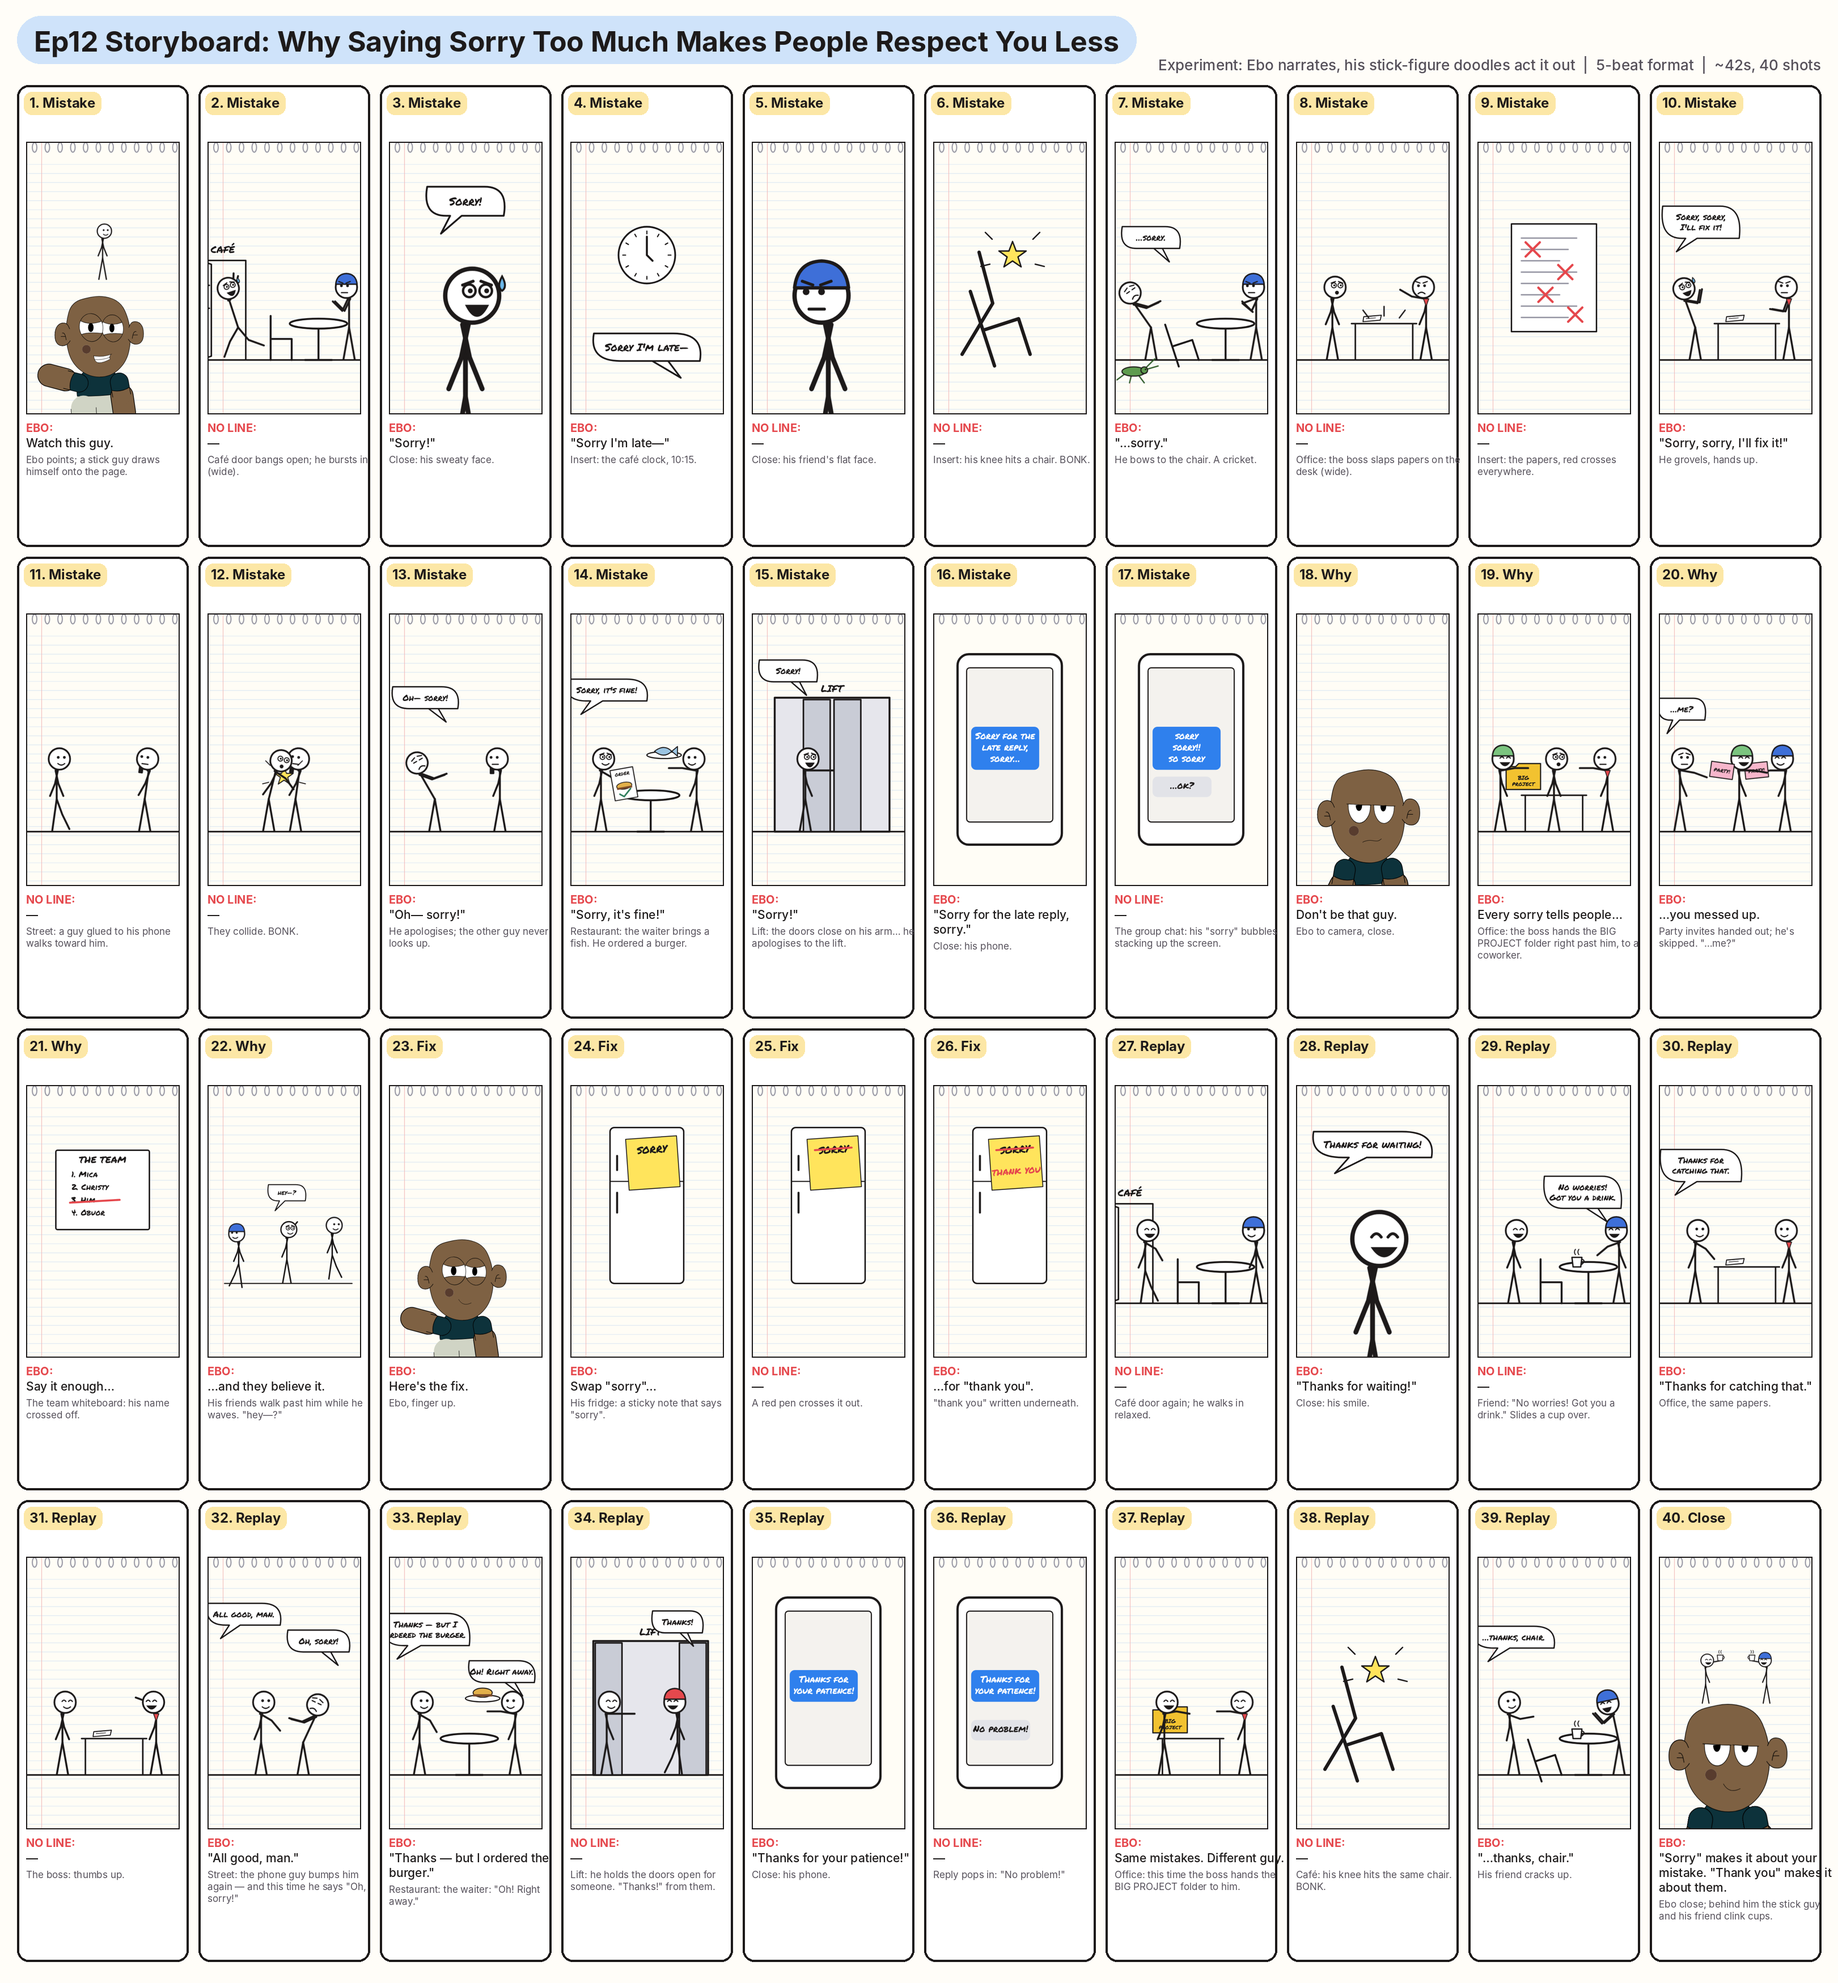
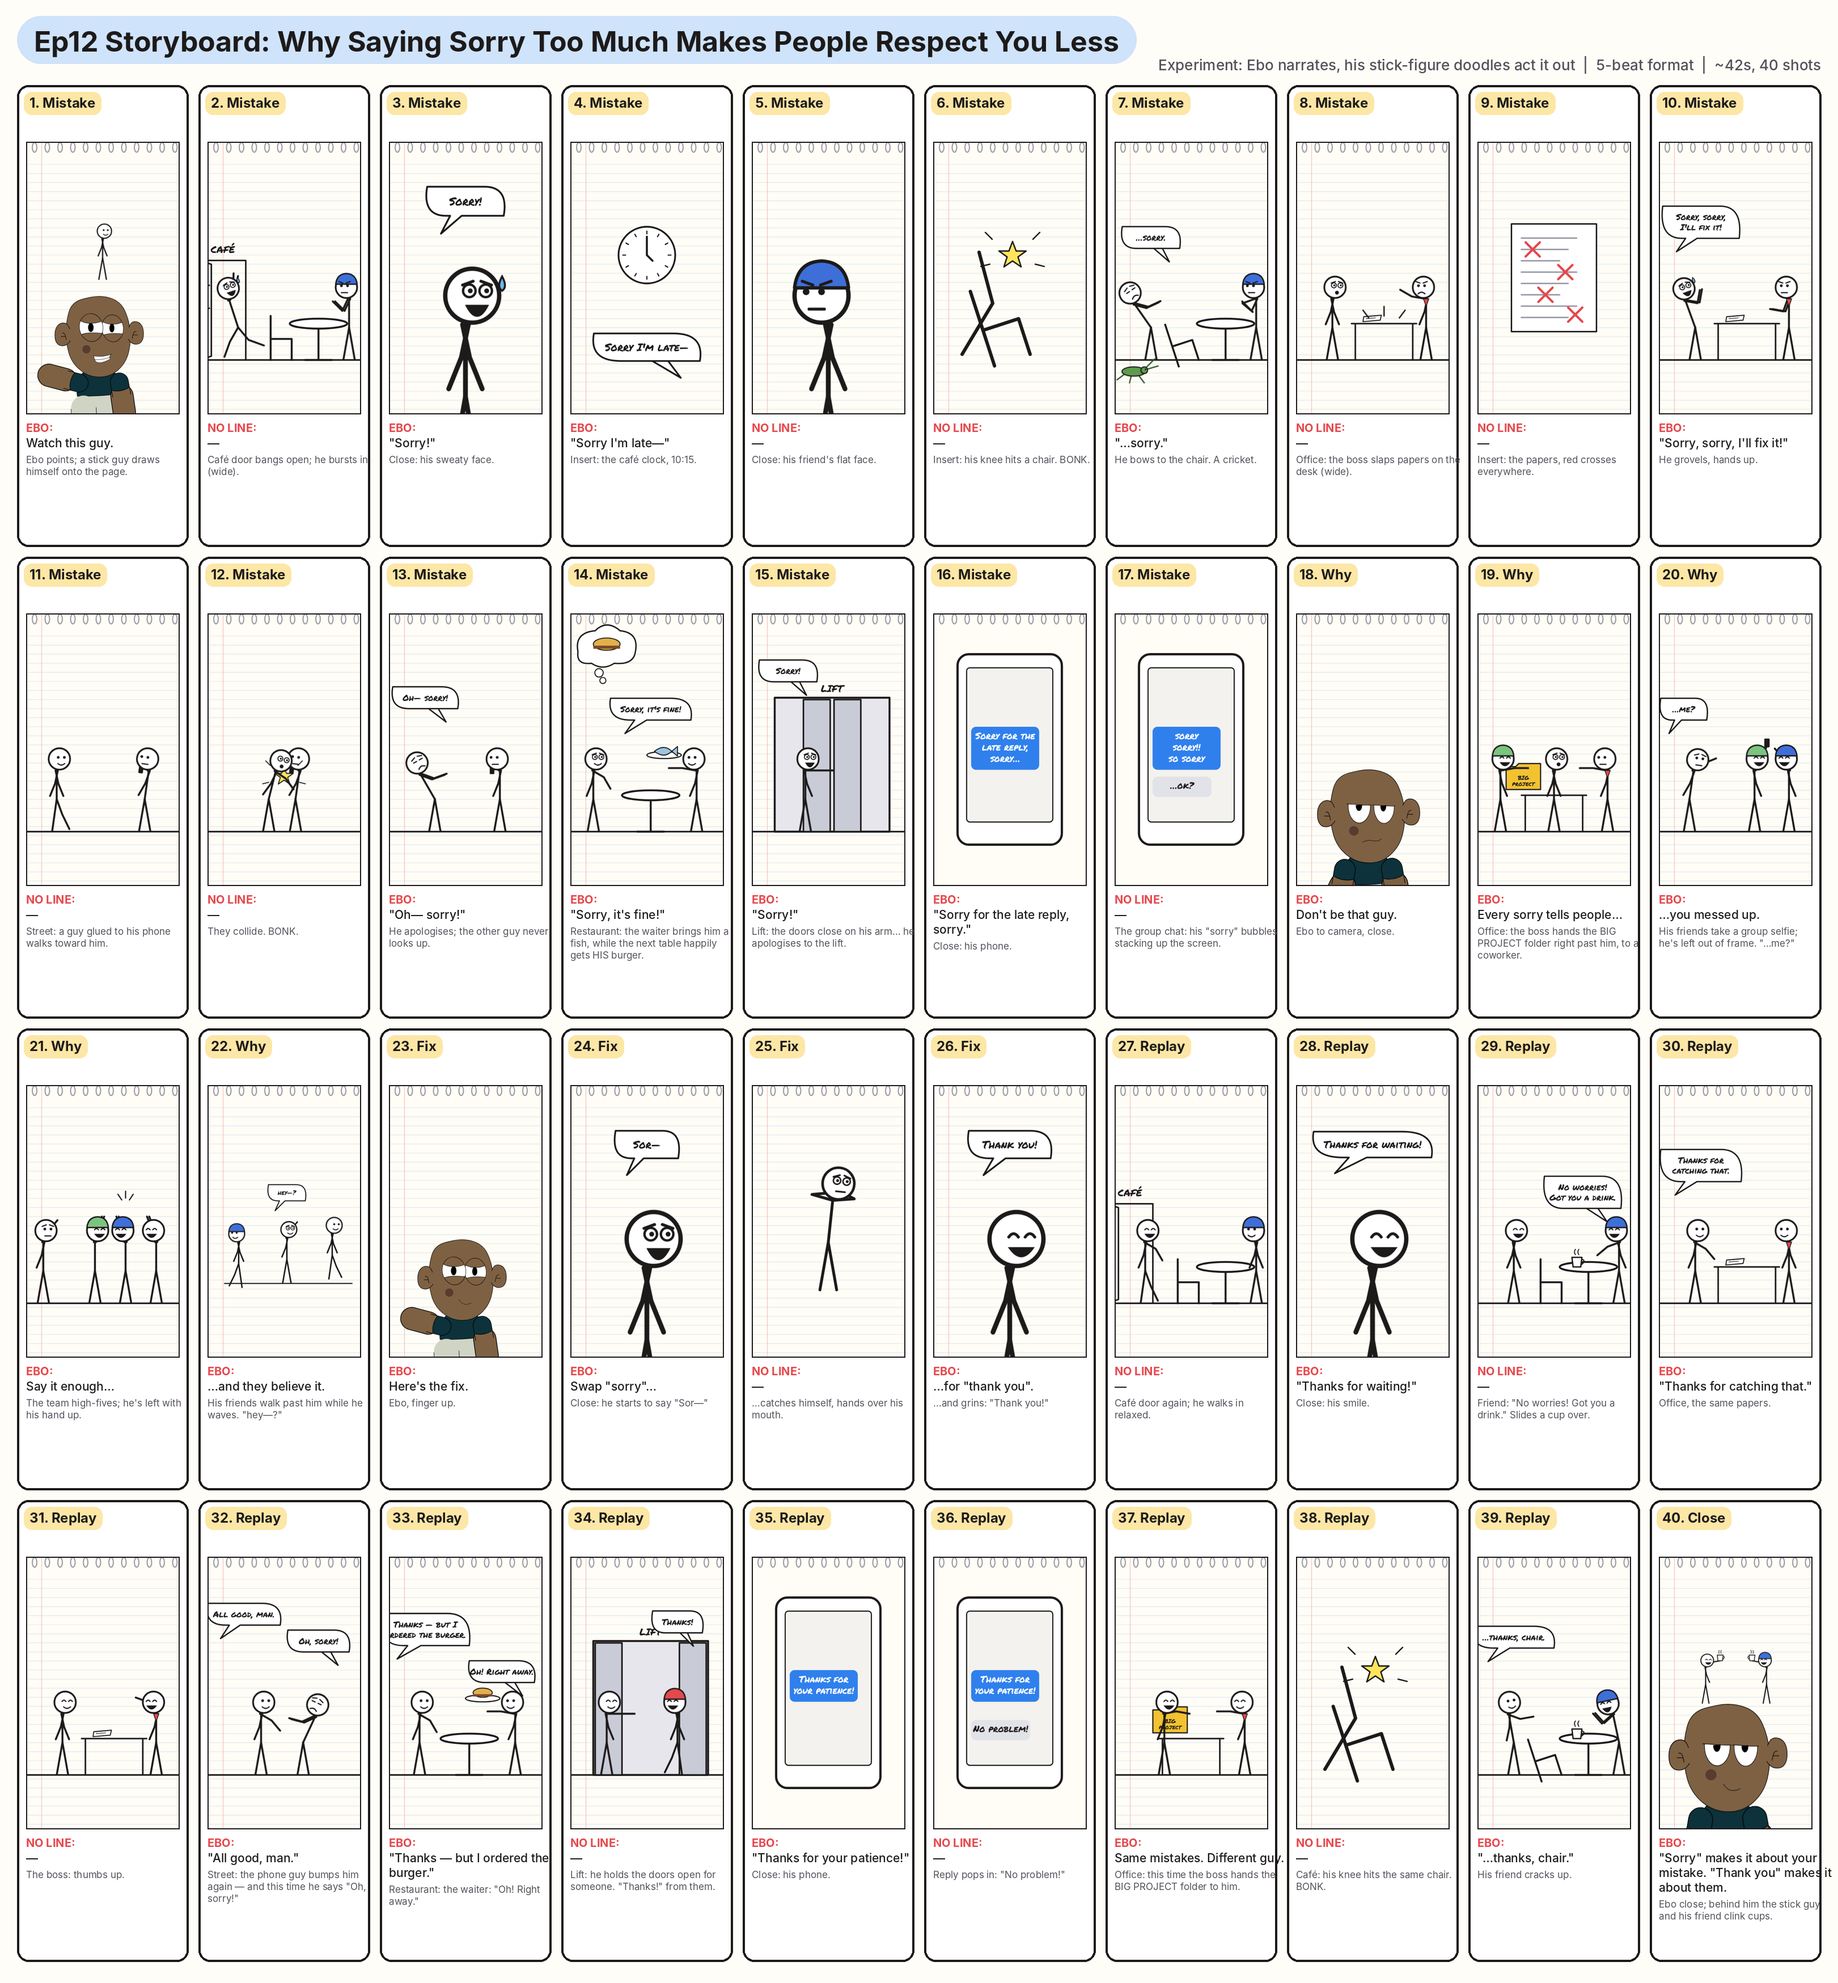
Ep12: no card notes; the fix is acted (Sor— / hands over mouth / Thank you!), the selfie, the high-five, the burger thought
Claude-Session: https://claude.ai/code/session_01Kn9As8DfxPWEV47cuNZdJi

diff --git a/src/series/ep12board.tsx b/src/series/ep12board.tsx
@@ -193,21 +193,21 @@ export const PANELS: ((l: number) => React.ReactNode)[] = [
   P(() => <Page><Big><Floor /><Lamp x={950} /><PhoneGuy x={760} /><Guy x={300} pose={{eyes: 'dot', mouth: 'smile', legL: [20, 6], legR: [-8, 0]}} /></Big></Page>), // 11 street
   P((l) => <Page><Big><Floor /><Lamp x={950} /><PhoneGuy x={l < 0.25 ? 760 - 160 * (l / 0.25) : 600} /><g transform="translate(540 1110) scale(0.8)"><Bonk /></g><Guy x={460} pose={{lean: -14, armL: [70, -20], eyes: 'wide', mouth: 'o'}} /></Big></Page>), // 12 collide
   P(() => <Page><Big><Floor /><Lamp x={950} /><PhoneGuy x={720} lean={0} /><Guy x={380} pose={{armL: [40, 40], armR: [40, 40], lean: 30, eyes: 'closed', mouth: 'frown', brows: 'worried'}} /><g transform="translate(330 700)"><DoodleBubble text={['Oh— sorry!']} w={340} tail={1} /></g></Big></Page>), // 13 he apologises
-  P(() => <Page><Big><Floor /><g transform={`translate(560 ${FLOOR})`}><DoodleTable /></g><Waiter dish="fish" /><Guy x={300} pose={{eyes: 'wide', mouth: 'smile', brows: 'worried', armL: [60, -30]}} /><g transform="translate(330 660)"><DoodleBubble text={["Sorry, it's fine!"]} w={420} tail={-1} /></g><g transform="translate(420 1150) rotate(-10)"><rect x={-60} y={-80} width={120} height={160} {...INKL} fill="#fff" strokeWidth={5} /><text y={-44} textAnchor="middle" fontFamily="EboMarker" fontSize={24} fill="#1D1A1A">ORDER</text><ellipse cx={0} cy={10} rx={40} ry={18} fill="#E2B04A" stroke="#1D1A1A" strokeWidth={4} /><rect x={-40} y={16} width={80} height={10} fill="#7A4A2A" /><path d="M -30 50 l 20 16 l 40 -36" stroke="#2E7D5B" strokeWidth={8} fill="none" strokeLinecap="round" /></g></Big></Page>), // 14 restaurant
+  P(() => <Page><Big><Floor /><g transform={`translate(560 ${FLOOR})`}><DoodleTable /></g><Waiter dish="fish" /><Guy x={260} pose={{eyes: 'wide', mouth: 'smile', brows: 'worried', armL: [60, -30]}} /><g transform="translate(560 760)"><DoodleBubble text={["Sorry, it's fine!"]} w={420} tail={-1} /></g><g transform="translate(330 420)"><path d="M -150 40 Q -170 -60 -60 -70 Q 0 -130 70 -70 Q 170 -60 150 40 Q 140 110 40 100 Q -20 140 -80 100 Q -160 110 -150 40 Z" {...INKL} fill="#fff" strokeWidth={7} /><ellipse cx={0} cy={0} rx={70} ry={32} fill="#E2B04A" stroke="#1D1A1A" strokeWidth={5} /><rect x={-70} y={8} width={140} height={16} fill="#7A4A2A" /><circle cx={-20} cy={190} r={16} {...INKL} fill="#fff" strokeWidth={5} /><circle cx={-40} cy={150} r={22} {...INKL} fill="#fff" strokeWidth={5} /></g></Big></Page>), // 14 restaurant: fish for him, HIS burger at the next table
   P(() => <Page><Big><Floor /><Lift shut /><g transform={`translate(420 ${FLOOR - 170})`}><StickFigure pose={{armR: [90, 0], eyes: 'wide', mouth: 'open', brows: 'worried'}} /></g><g transform="translate(330 560)"><DoodleBubble text={['Sorry!']} w={300} tail={1} /></g></Big></Page>), // 15 lift
   P(() => <Page lines={false}><Phone lines={['Sorry for the', 'late reply,', 'sorry…']} /></Page>), // 16 phone
   P(() => <Page lines={false}><Phone lines={['sorry', 'sorry!!', 'so sorry']} reply={['…ok?']} /></Page>), // 17 group chat
   // ── why ──
   P(() => <Page><Ebo x={540} y={2350} s={2.6} p={{eyes: 'half', mouth: 'flat'}} /></Page>), // 18 Don't be that guy
   P((l) => <Page><Big><Floor /><Desk x={540} /><Boss x={820} pose={{armR: [100, -10], eyes: 'side', mouth: 'flat'}} /><g transform={`translate(${830 - Math.min(l, 0.5) * 900} ${FLOOR - 280})`}><Folder x={0} y={0} /></g><g transform={`translate(260 ${FLOOR - 170})`}><StickFigure pose={{armR: [100, -10], eyes: 'happy', mouth: 'grin'}} hat="#7BC47F" /></g><Guy x={540} pose={{eyes: 'wide', mouth: 'o', brows: 'worried'}} /></Big></Page>), // 19 the big project goes past him
-  P(() => <Page><Big><Floor /><g transform={`translate(800 ${FLOOR - 170})`}><StickFigure facing={-1} pose={{armR: [90, -10], eyes: 'happy', mouth: 'smile'}} hat="#3E6FD8" /></g><Invite x={650} y={1080} rot={-6} /><g transform={`translate(560 ${FLOOR - 170})`}><StickFigure pose={{armR: [90, -10], eyes: 'happy', mouth: 'grin'}} hat="#7BC47F" /></g><Invite x={470} y={1080} rot={8} /><Guy x={250} pose={{armR: [80, -10], eyes: 'dot', mouth: 'flat', brows: 'worried'}} /><g transform="translate(260 760)"><DoodleBubble text={["…me?"]} w={240} tail={-1} /></g></Big></Page>), // 20 the party invites skip him
-  P(() => <Page><Whiteboard /></Page>), // 21 crossed off the team
+  P(() => <Page><Big><Floor /><g transform={`translate(640 ${FLOOR - 170})`}><StickFigure pose={{armR: [160, -10], eyes: 'happy', mouth: 'grin'}} hat="#7BC47F" hold={<rect x={-14} y={-40} width={28} height={46} rx={5} fill="#1D1A1A" />} /></g><g transform={`translate(820 ${FLOOR - 170})`}><StickFigure facing={-1} pose={{armL: [150, -10], eyes: 'happy', mouth: 'grin'}} hat="#3E6FD8" /></g><Guy x={300} pose={{armL: [130, -10], eyes: 'dot', mouth: 'flat', brows: 'worried', lean: -8}} /><g transform="translate(270 760)"><DoodleBubble text={["…me?"]} w={240} tail={-1} /></g></Big></Page>), // 20 the group selfie, he's left out of frame
+  P(() => <Page><Big><Floor />{[500, 660, 820].map((x, i) => <g key={x} transform={`translate(${x} ${FLOOR - 170})`}><StickFigure facing={i ? -1 : 1} pose={{armR: [165, -5], armL: [165, -5], eyes: 'happy', mouth: 'grin'}} hat={['#7BC47F', '#3E6FD8', undefined][i]} /></g>)}<path d="M 640 860 l -20 -30 M 660 850 l 0 -36 M 680 860 l 20 -30" stroke="#1D1A1A" strokeWidth={6} strokeLinecap="round" /><Guy x={230} pose={{armL: [150, -10], eyes: 'dot', mouth: 'flat', brows: 'worried'}} /></Big></Page>), // 21 the team high-five without him
   P((l) => <Page><Floor /><g transform={`translate(560 ${FLOOR - 170})`}><StickFigure pose={{armL: [150, -10], eyes: 'wide', mouth: 'smile', brows: 'worried'}} /></g>{[120, 980].map((x, i) => <g key={x} transform={`translate(${x + (i ? -1 : 1) * (Math.min(l, 1.4) / 1.4) * 760} ${FLOOR - 170 + (i ? 30 : -30)})`}><StickFigure facing={i ? -1 : 1} pose={{eyes: 'side', mouth: 'smile', legL: [20, 6], legR: [-8, 0]}} hat={i ? '#3E6FD8' : undefined} /></g>)}<g transform="translate(560 760)"><DoodleBubble text={["hey—?"]} w={260} tail={-1} /></g></Page>), // 22 friends walk past
   // ── the fix ──
   P(() => <Page><Ebo p={{eyes: 'squint', mouth: 'smile', armL: [140, -10]}} /></Page>), // 23 Here's the fix
-  P(() => <Page><Fridge note="sorry" /></Page>), // 24
-  P(() => <Page><Fridge note="crossed" /></Page>), // 25
-  P(() => <Page><Fridge note="thanks" /></Page>), // 26
+  P(() => <Page><Face pose={{eyes: 'wide', mouth: 'open', brows: 'worried'}} /><g transform="translate(540 420) scale(1.7)"><DoodleBubble text={['Sor—']} w={260} /></g></Page>), // 24 he starts to say sorry…
+  P(() => <Page><g transform="translate(540 1450) scale(2) translate(0 -170)"><StickFigure pose={{eyes: 'wide', mouth: 'flat', brows: 'worried', armR: [100, 149], armL: [-100, -159], lean: -6}} /></g></Page>), // 25 …catches himself (hands over his mouth)
+  P(() => <Page><Face pose={{eyes: 'happy', mouth: 'grin'}} /><g transform="translate(540 420) scale(1.7)"><DoodleBubble text={['Thank you!']} w={340} /></g></Page>), // 26 …and says thank you
   // ── the replay ──
   P((l) => <Page><Big><Cafe /><CafeDoor open /><Friend x={880} pose={{eyes: 'dot', mouth: 'smile'}} /><Guy x={l < 0.6 ? -100 + 400 * (l / 0.6) : 300} pose={{eyes: 'happy', mouth: 'grin', legL: [20, 6], legR: [-8, 0], armL: [60, -30]}} /></Big></Page>), // 27 walks in relaxed
   P(() => <Page><Face pose={{eyes: 'happy', mouth: 'grin'}} /><g transform="translate(540 420) scale(1.6)"><DoodleBubble text={['Thanks for waiting!']} w={520} /></g></Page>), // 28

diff --git a/episodes/ep12/script.md b/episodes/ep12/script.md
@@ -20,19 +20,19 @@ Props in context, no infographics (user's note): the "why" and the fix are shown
 | 11 | Mistake | — | Street: a guy glued to his phone walks toward him. |
 | 12 | Mistake | — | They collide. BONK. |
 | 13 | Mistake | "Oh— sorry!" | He apologises; the other guy never looks up. |
-| 14 | Mistake | "Sorry, it's fine!" | Restaurant: the waiter brings a fish. He ordered a burger. |
+| 14 | Mistake | "Sorry, it's fine!" | Restaurant: the waiter brings him a fish, while the next table happily gets HIS burger. |
 | 15 | Mistake | "Sorry!" | Lift: the doors close on his arm… he apologises to the lift. |
 | 16 | Mistake | "Sorry for the late reply, sorry." | Close: his phone. |
 | 17 | Mistake | — | The group chat: his "sorry" bubbles stacking up the screen. |
 | 18 | Why | Don't be that guy. | Ebo to camera, close. |
 | 19 | Why | Every sorry tells people… | Office: the boss hands the BIG PROJECT folder right past him, to a coworker. |
-| 20 | Why | …you messed up. | Party invites handed out; he's skipped. "…me?" |
-| 21 | Why | Say it enough… | The team whiteboard: his name crossed off. |
+| 20 | Why | …you messed up. | His friends take a group selfie; he's left out of frame. "…me?" |
+| 21 | Why | Say it enough… | The team high-fives; he's left with his hand up. |
 | 22 | Why | …and they believe it. | His friends walk past him while he waves. "hey—?" |
 | 23 | Fix | Here's the fix. | Ebo, finger up. |
-| 24 | Fix | Swap "sorry"… | His fridge: a sticky note that says "sorry". |
-| 25 | Fix | — | A red pen crosses it out. |
-| 26 | Fix | …for "thank you". | "thank you" written underneath. |
+| 24 | Fix | Swap "sorry"… | Close: he starts to say "Sor—" |
+| 25 | Fix | — | …catches himself, hands over his mouth. |
+| 26 | Fix | …for "thank you". | …and grins: "Thank you!" |
 | 27 | Replay | — | Café door again; he walks in relaxed. |
 | 28 | Replay | "Thanks for waiting!" | Close: his smile. |
 | 29 | Replay | — | Friend: "No worries! Got you a drink." Slides a cup over. |
